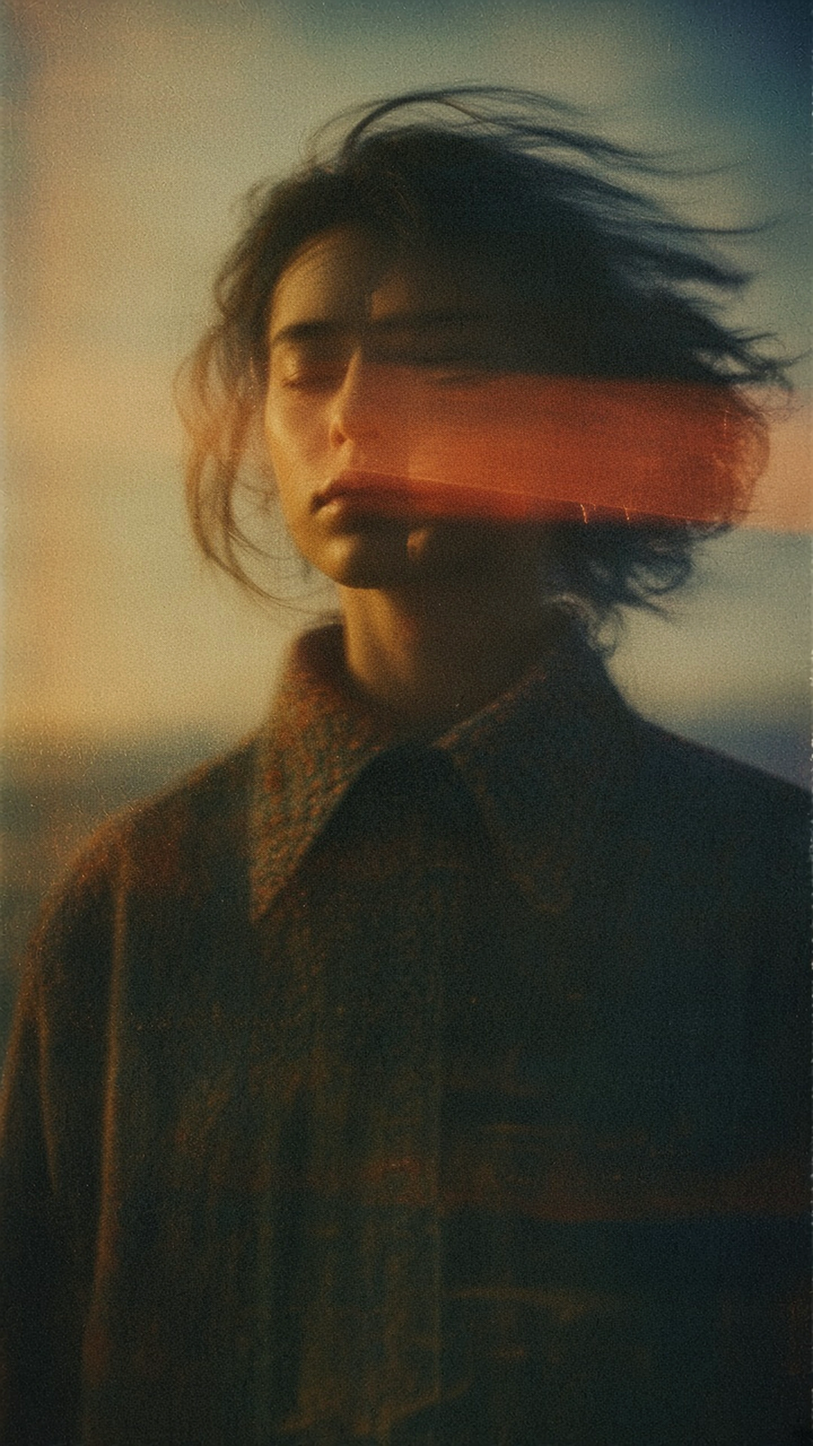
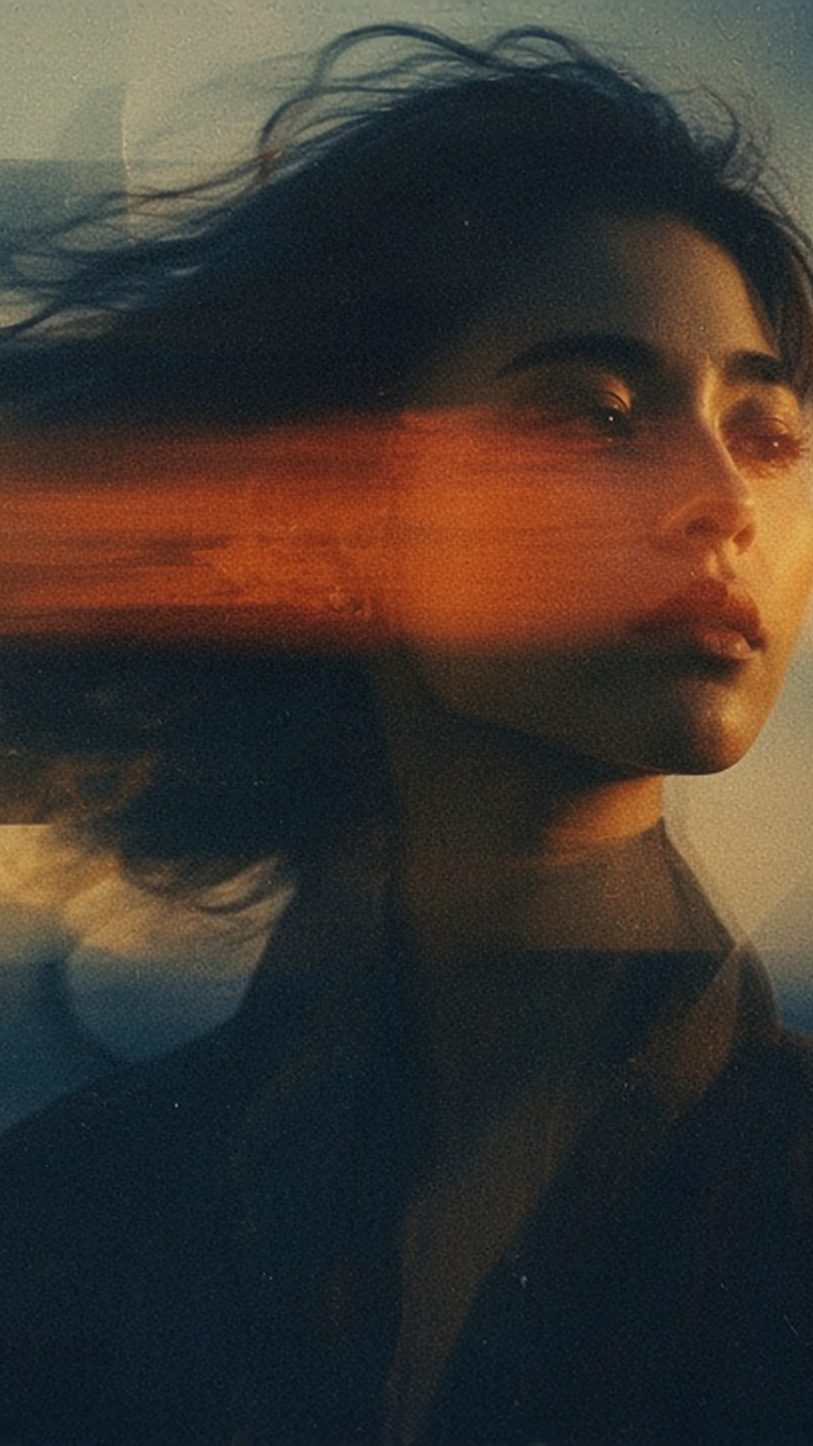
Match mobile hero to desktop artwork

diff --git a/index.html b/index.html
@@ -49,7 +49,7 @@
   <main id="top">
     <section class="hero" aria-labelledby="hero-title">
       <picture class="photo hero__photo">
-        <source media="(max-width: 767px)" srcset="./assets/images/hero-mobile.webp?v=10">
+        <source media="(max-width: 767px)" srcset="./assets/images/hero-mobile.webp?v=11">
         <img src="./assets/images/hero-desktop.webp?v=10" alt="" width="3840" height="2160" loading="eager" fetchpriority="high" decoding="async">
       </picture>
       <div class="hero__shade"></div>
